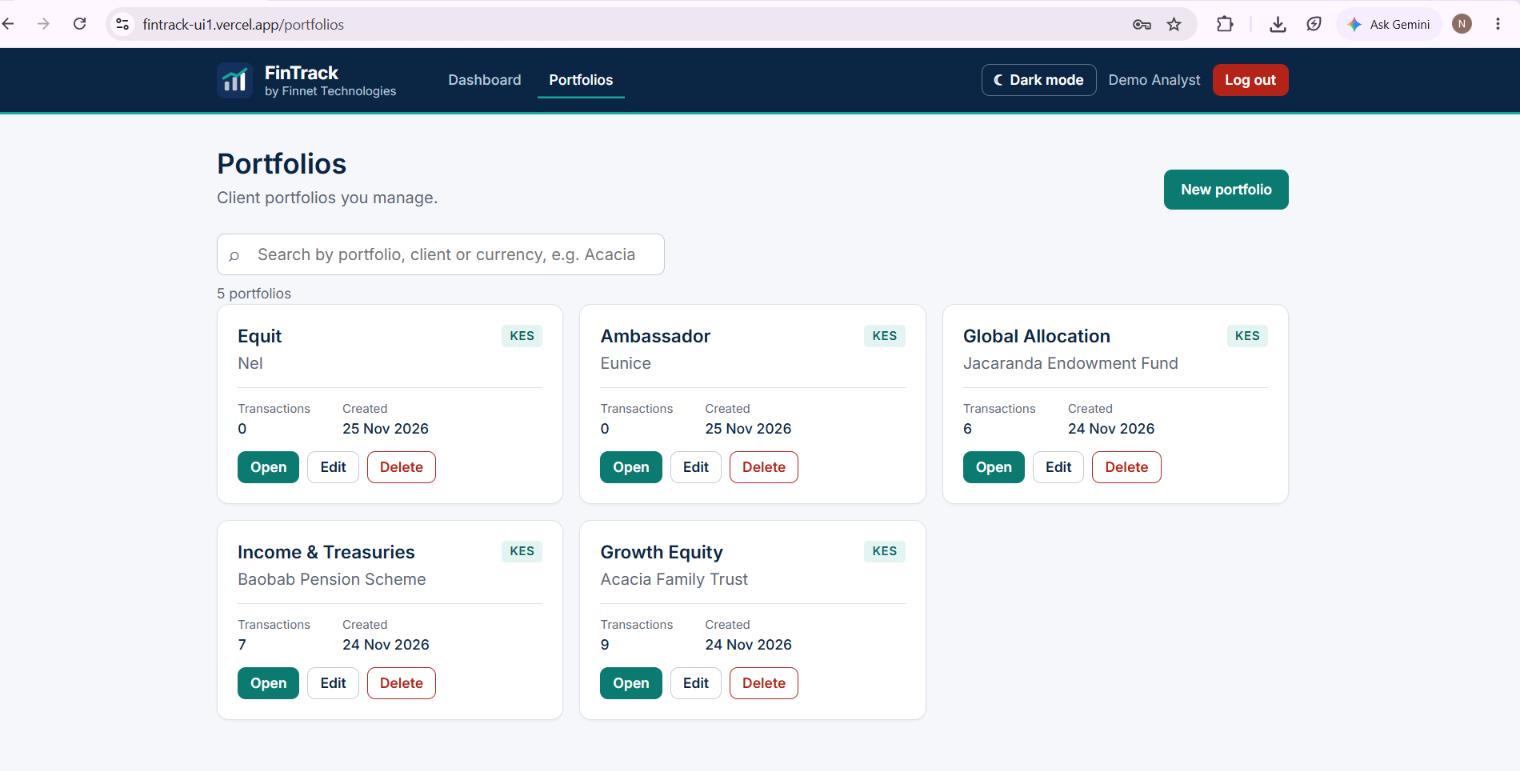
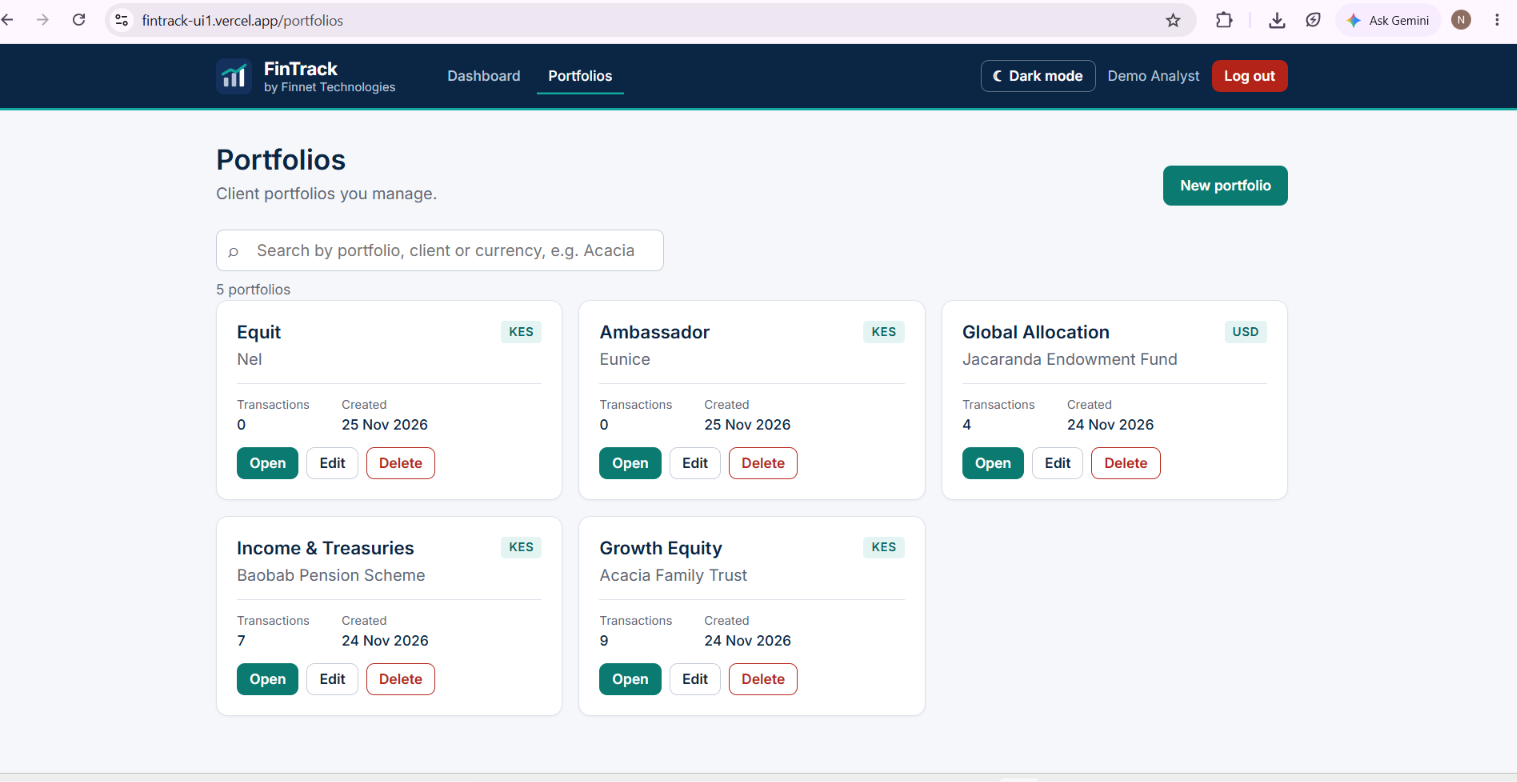
docs: update screenshots and clarify demo data

diff --git a/README.md b/README.md
@@ -8,7 +8,7 @@ A portfolio and transactions tracker for investment analysts. An analyst registe
 | **API docs (Swagger)** | https://fintrack-apis.vercel.app/api/docs |
 | **Demo login** | `demo@fintrack.app` / `Demo@2026` (or click **Fill in demo login**) |
 
-The demo analyst has three seeded portfolios (two in KES, one in USD) with 22 trades. All client names and data are fictional.
+The seed script gives the demo analyst three portfolios (two in KES, one in USD) with 22 trades; the live demo may also contain portfolios added while testing. All client names and data are fictional.
 
 ![Portfolio detail](docs/screenshots/detail-desktop.png)
 
@@ -364,6 +364,10 @@ I used Claude Code, an AI coding assistant, as a pair programmer.
 **Portfolio detail:** summary tiles and allocation donut
 
 ![Portfolio detail](docs/screenshots/detail-desktop.png)
+
+**Portfolio detail in USD:** every amount follows the portfolio's own base currency
+
+![USD portfolio detail](docs/screenshots/detail-usd.png)
 
 **Portfolio detail:** holdings and the sortable, filterable transactions table with CSV export
 
